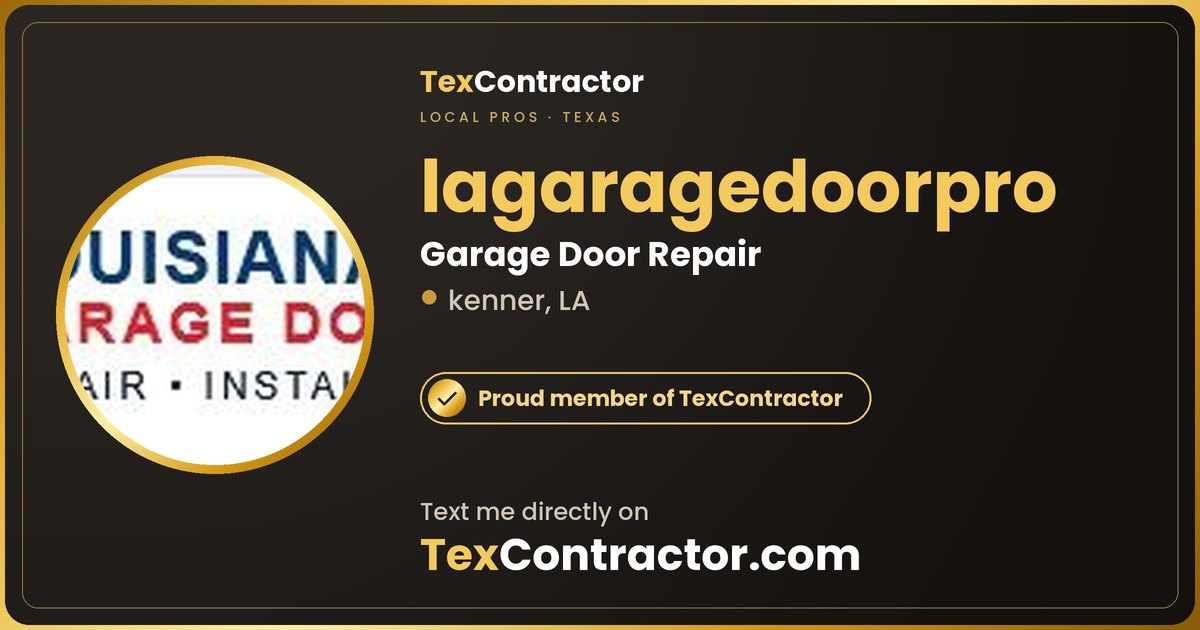
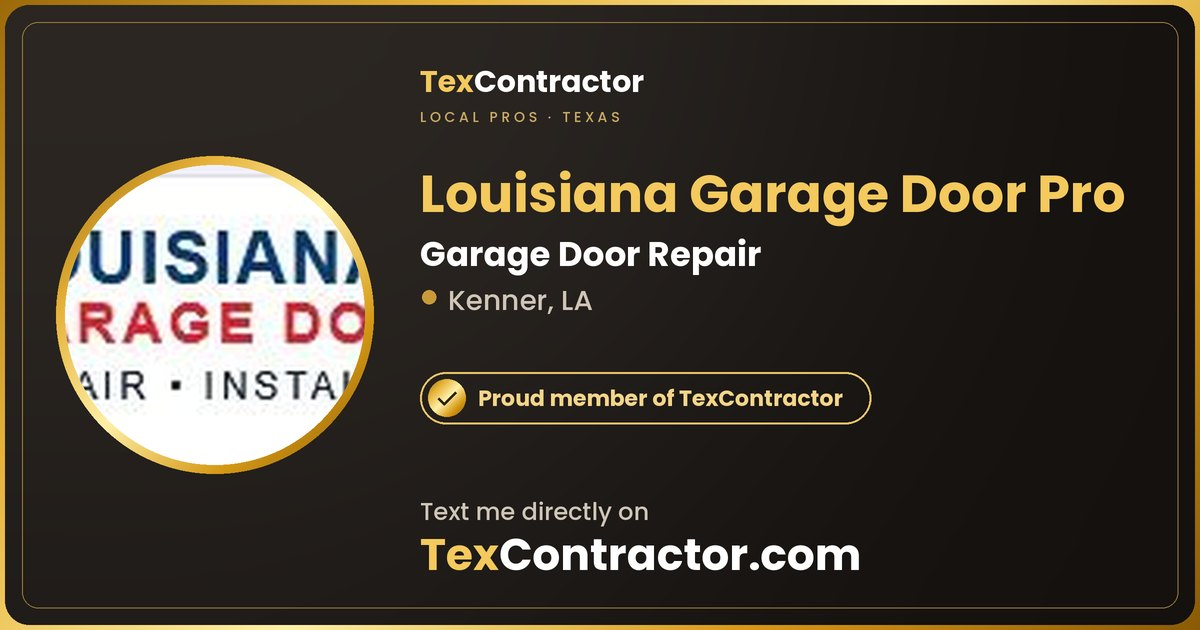
Update technician share cards

Changed region(s): [[0.3392, 0.2413, 0.9558, 0.3921], [0.37, 0.4524, 0.4933, 0.5127]]

diff --git a/p/a1c6cff1-eb35-4388-a2e8-25f185779141/index.html b/p/a1c6cff1-eb35-4388-a2e8-25f185779141/index.html
@@ -4,23 +4,23 @@
 <meta charset="utf-8">
 <meta name="viewport" content="width=device-width, initial-scale=1">
 <meta name="robots" content="noindex, follow">
-<title>lagaragedoorpro · Garage Door Repair</title>
-<meta name="description" content="Text lagaragedoorpro directly on TexContractor · kenner, LA. Free for customers.">
+<title>Louisiana Garage Door Pro · Garage Door Repair</title>
+<meta name="description" content="Text Louisiana Garage Door Pro directly on TexContractor · Kenner, LA. Free for customers.">
 <meta property="og:type" content="profile">
 <meta property="og:site_name" content="TexContractor">
-<meta property="og:title" content="lagaragedoorpro · Garage Door Repair">
-<meta property="og:description" content="Text lagaragedoorpro directly on TexContractor · kenner, LA. Free for customers.">
-<meta property="og:image" content="https://texcontractor.com/p/a1c6cff1-eb35-4388-a2e8-25f185779141/card.jpg?v=afed597a">
+<meta property="og:title" content="Louisiana Garage Door Pro · Garage Door Repair">
+<meta property="og:description" content="Text Louisiana Garage Door Pro directly on TexContractor · Kenner, LA. Free for customers.">
+<meta property="og:image" content="https://texcontractor.com/p/a1c6cff1-eb35-4388-a2e8-25f185779141/card.jpg?v=a27cd6a1">
 <meta property="og:image:width" content="1200"><meta property="og:image:height" content="630">
 <meta property="og:url" content="https://texcontractor.com/p/a1c6cff1-eb35-4388-a2e8-25f185779141/">
 <meta name="twitter:card" content="summary_large_image">
-<meta name="twitter:image" content="https://texcontractor.com/p/a1c6cff1-eb35-4388-a2e8-25f185779141/card.jpg?v=afed597a">
+<meta name="twitter:image" content="https://texcontractor.com/p/a1c6cff1-eb35-4388-a2e8-25f185779141/card.jpg?v=a27cd6a1">
 <link rel="canonical" href="https://texcontractor.com/profile.html?contractor=a1c6cff1-eb35-4388-a2e8-25f185779141&amp;service=Garage+Door+Repair">
 <link rel="icon" href="/favicon.ico">
 <script>location.replace("https://texcontractor.com/profile.html?contractor=a1c6cff1-eb35-4388-a2e8-25f185779141&service=Garage+Door+Repair" + (location.search ? '&' + location.search.slice(1) : ''));</script>
 </head>
 <body style="font-family:system-ui,sans-serif;text-align:center;padding:24px">
-<p><a href="https://texcontractor.com/profile.html?contractor=a1c6cff1-eb35-4388-a2e8-25f185779141&amp;service=Garage+Door+Repair"><img src="card.jpg" alt="lagaragedoorpro" style="max-width:100%;border-radius:12px"></a></p>
-<p><a href="https://texcontractor.com/profile.html?contractor=a1c6cff1-eb35-4388-a2e8-25f185779141&amp;service=Garage+Door+Repair">Text lagaragedoorpro on TexContractor</a></p>
+<p><a href="https://texcontractor.com/profile.html?contractor=a1c6cff1-eb35-4388-a2e8-25f185779141&amp;service=Garage+Door+Repair"><img src="card.jpg" alt="Louisiana Garage Door Pro" style="max-width:100%;border-radius:12px"></a></p>
+<p><a href="https://texcontractor.com/profile.html?contractor=a1c6cff1-eb35-4388-a2e8-25f185779141&amp;service=Garage+Door+Repair">Text Louisiana Garage Door Pro on TexContractor</a></p>
 </body>
 </html>
